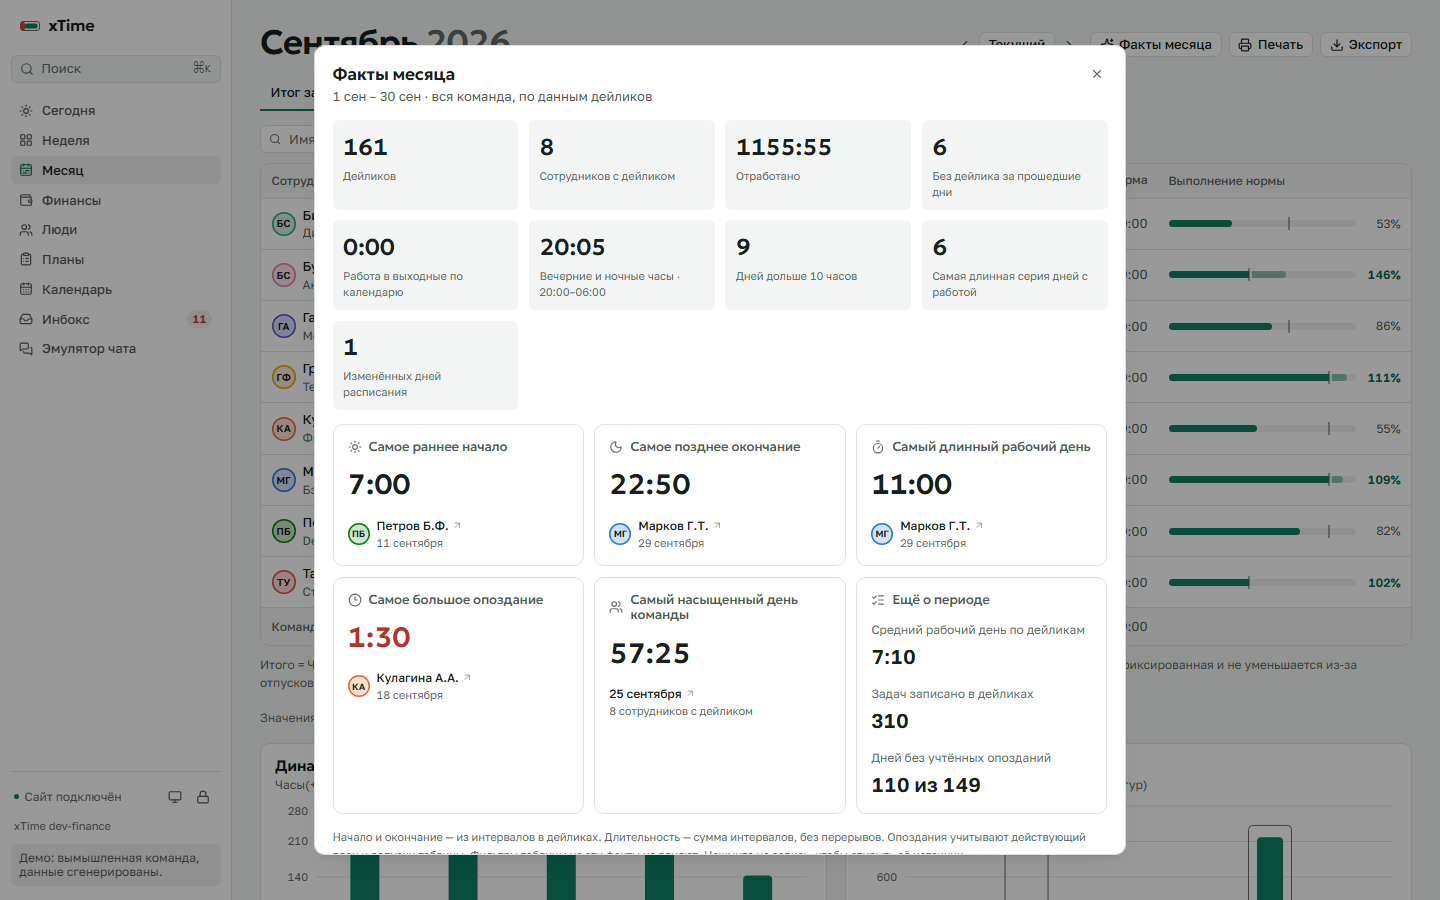
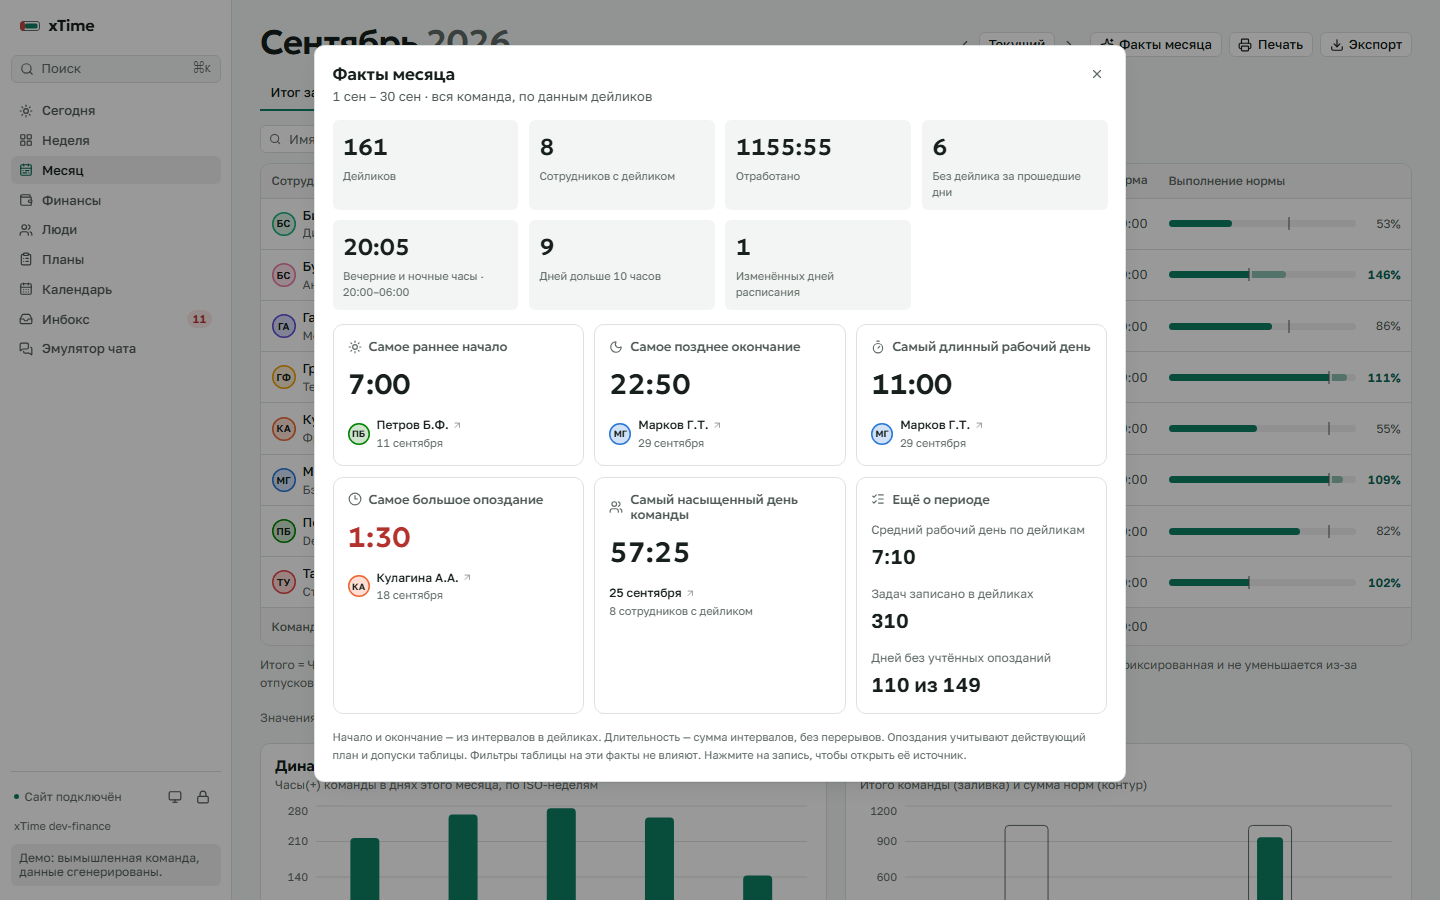
fix(reports): убрал лишние показатели из фактов периода
- убрал работу в выходные по календарю из фактов недели и месяца
- убрал самую длинную серию дней с работой
- обновил скриншоты фактов на компьютере и телефоне

diff --git a/frontend/src/components/domain/PeriodFacts.tsx b/frontend/src/components/domain/PeriodFacts.tsx
@@ -130,10 +130,8 @@ export function PeriodFacts({
               { label: "Сотрудников с дейликом", value: data.employees_reported },
               { label: "Отработано", value: hm(data.worked_sec) },
               { label: "Без дейлика за прошедшие дни", value: data.missing_days },
-              { label: "Работа в выходные по календарю", value: hm(data.calendar_off_sec ?? 0) },
               { label: "Вечерние и ночные часы · 20:00–06:00", value: hm(data.evening_night_sec ?? 0) },
               { label: "Дней дольше 10 часов", value: data.long_days ?? 0 },
-              { label: "Самая длинная серия дней с работой", value: data.longest_daily_series ?? 0 },
               { label: "Изменённых дней расписания", value: data.changed_schedule_days ?? 0 },
             ].map((item) => (
               <div key={item.label} className="rounded-md bg-surface-2/70 p-3">
